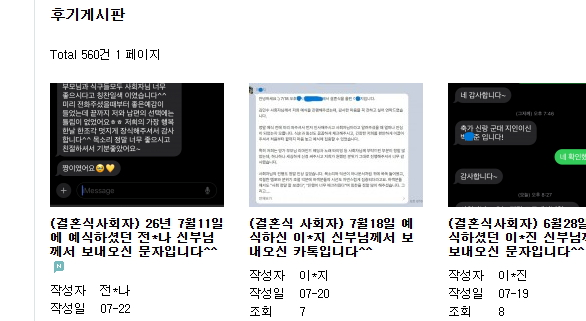
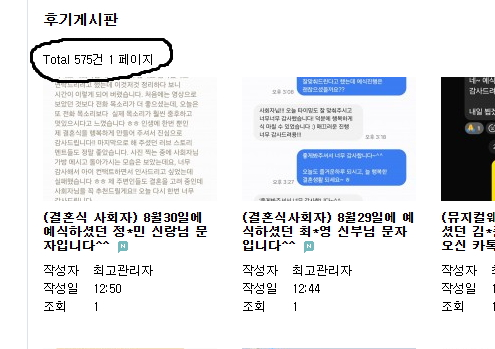
후기 증빙 자료 갱신: 숨고 733 · 후기게시판 575 · 블로그 965 · 네이버 스마트스토어 245 추가 (총 2,518건, 2026.09.01 기준)

diff --git a/client/src/components/sections/ReviewSection.tsx b/client/src/components/sections/ReviewSection.tsx
@@ -19,39 +19,48 @@ const REVIEW_IMAGES = [
 
 const GOLD = "#d4b896";
 
-// 후기 2000+ 증빙 자료 (숨고 프로필, 홈페이지 후기게시판, 블로그 사회자 후기글)
+// 후기 2500+ 증빙 자료 (숨고 프로필, 홈페이지 후기게시판, 블로그 사회자 후기글, 네이버 스마트스토어)
 const PROOF_IMAGES = [
   {
     src: "/images/proof/proof-soomgo.jpg",
-    alt: "숨고 프로필 리뷰수 625건",
+    alt: "숨고 프로필 리뷰수 733건",
     label: "출처 · 숨고",
     source: "숨고",
-    count: 625,
+    count: 733,
     url: "https://soomgo.com/profile/users/4719699",
     linkLabel: "숨고 프로필에서 확인",
   },
   {
     src: "/images/proof/proof-blog.jpg",
-    alt: "홈페이지 후기게시판 Total 560건",
+    alt: "홈페이지 후기게시판 Total 575건",
     label: "출처 · 후기 게시판",
     source: "후기 게시판",
-    count: 560,
+    count: 575,
     url: "http://musicin.godohosting.com/bbs/board.php?bo_table=forum",
     linkLabel: "후기 게시판에서 확인",
   },
   {
     src: "/images/proof/proof-singer-blog.jpg",
-    alt: "블로그 사회자 후기글 931건",
+    alt: "블로그 사회자 후기글 965건",
     label: "출처 · 블로그",
     source: "블로그",
-    count: 931,
+    count: 965,
     url: "https://blog.naver.com/PostList.naver?blogId=inusmusics&from=postList&categoryNo=71&parentCategoryNo=71",
     linkLabel: "블로그 후기글에서 확인",
+  },
+  {
+    src: "/images/proof/proof-smartstore.jpg",
+    alt: "네이버 스마트스토어 리뷰 245건",
+    label: "출처 · 스마트스토어",
+    source: "네이버 스마트스토어",
+    count: 245,
+    url: "https://smartstore.naver.com/inus_store/products/5466083565",
+    linkLabel: "스마트스토어에서 확인",
   },
 ];
 
 const PROOF_TOTAL = PROOF_IMAGES.reduce((sum, p) => sum + p.count, 0);
-const PROOF_AS_OF = "2026.07.27";
+const PROOF_AS_OF = "2026.09.01";
 
 export default function ReviewSection() {
   const anim1 = useScrollAnimation();
@@ -168,8 +177,8 @@ export default function ReviewSection() {
             {" "}2,500건 이상 (사회자 개별 후기 포함)
           </p>
 
-          {/* 증빙 자료 — 숨고/홈페이지/블로그 실제 후기 캡처 */}
-          <div className="mt-6 grid grid-cols-3 gap-2 sm:gap-3 max-w-lg mx-auto">
+          {/* 증빙 자료 — 숨고/홈페이지/블로그/스마트스토어 실제 후기 캡처 */}
+          <div className="mt-6 grid grid-cols-2 sm:grid-cols-4 gap-2 sm:gap-3 max-w-lg sm:max-w-2xl mx-auto">
             {PROOF_IMAGES.map((img) => (
               <div key={img.src} className="flex flex-col items-center gap-1.5">
                 <button
